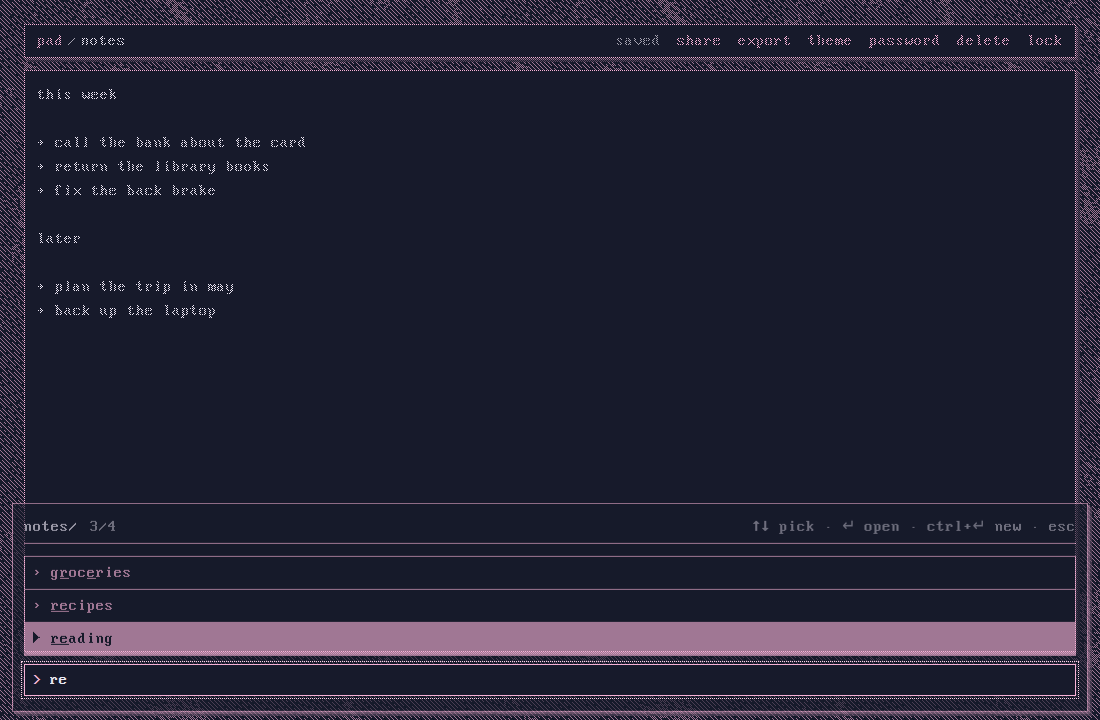
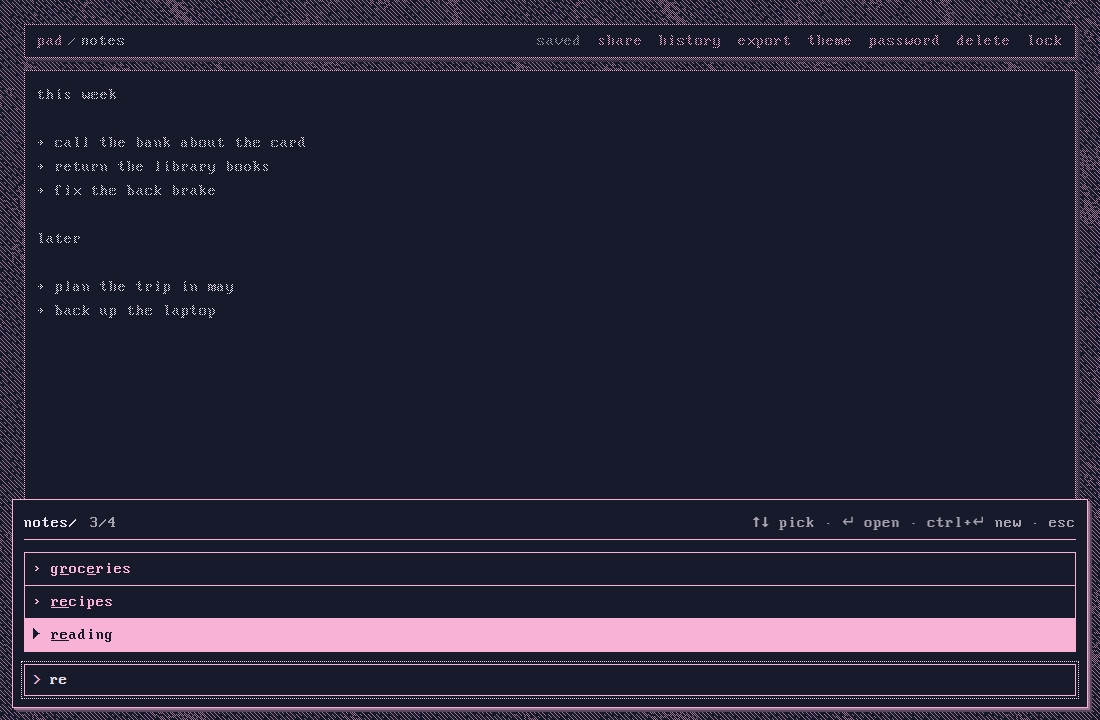
docs: readme screenshots with the finder fully open
screenshots.ts shot as soon as "re" was typed, while the finder was
still flying in (120 ms, ui/motion.ts), so it showed half faded and
off its place. It now waits for the page's animations to finish.
The desktop header also shows history now.

Changed region(s): [[0.0, 0.6722, 1.0, 1.0], [0.68, 0.7028, 0.7418, 0.7639]]

diff --git a/scripts/screenshots.ts b/scripts/screenshots.ts
@@ -64,6 +64,8 @@ async function shoot(page: Page, file: string) {
   await finder.click();
   await finder.fill('re');
   await page.evaluate(() => document.fonts.ready);
+  // The finder flies in (ui/motion.ts): shot before it lands, it's half there.
+  await page.evaluate(() => Promise.all(document.getAnimations().map((a) => a.finished)));
   await page.screenshot({ path: `${out}/${file}` });
 }
 
